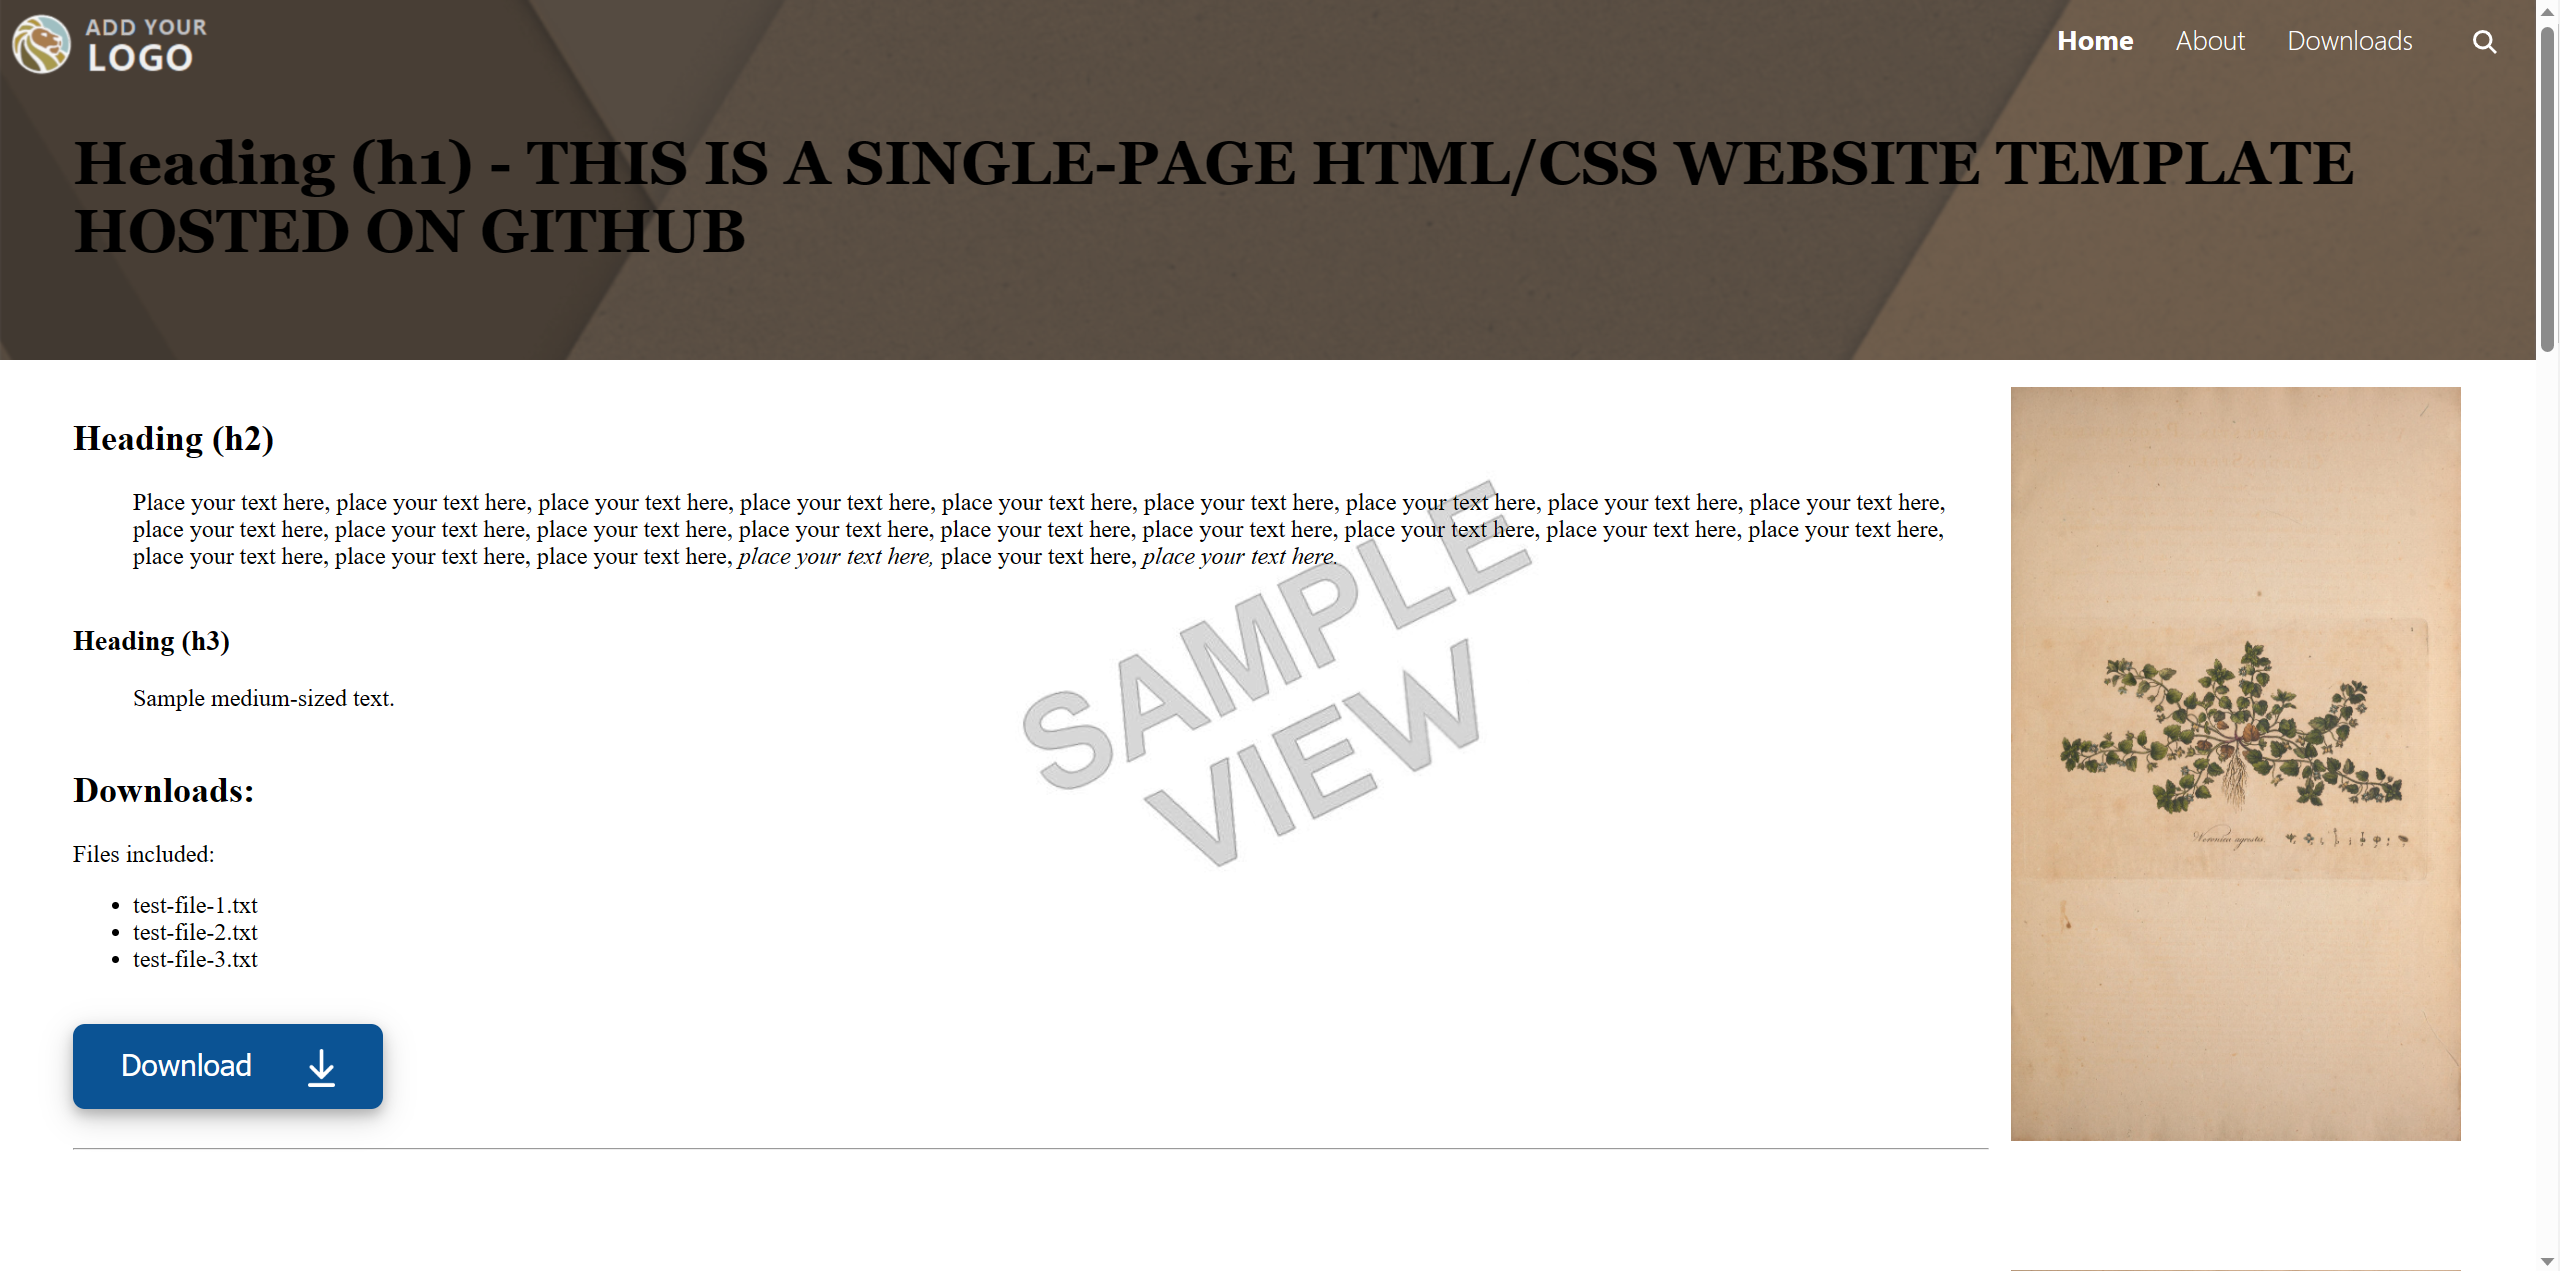
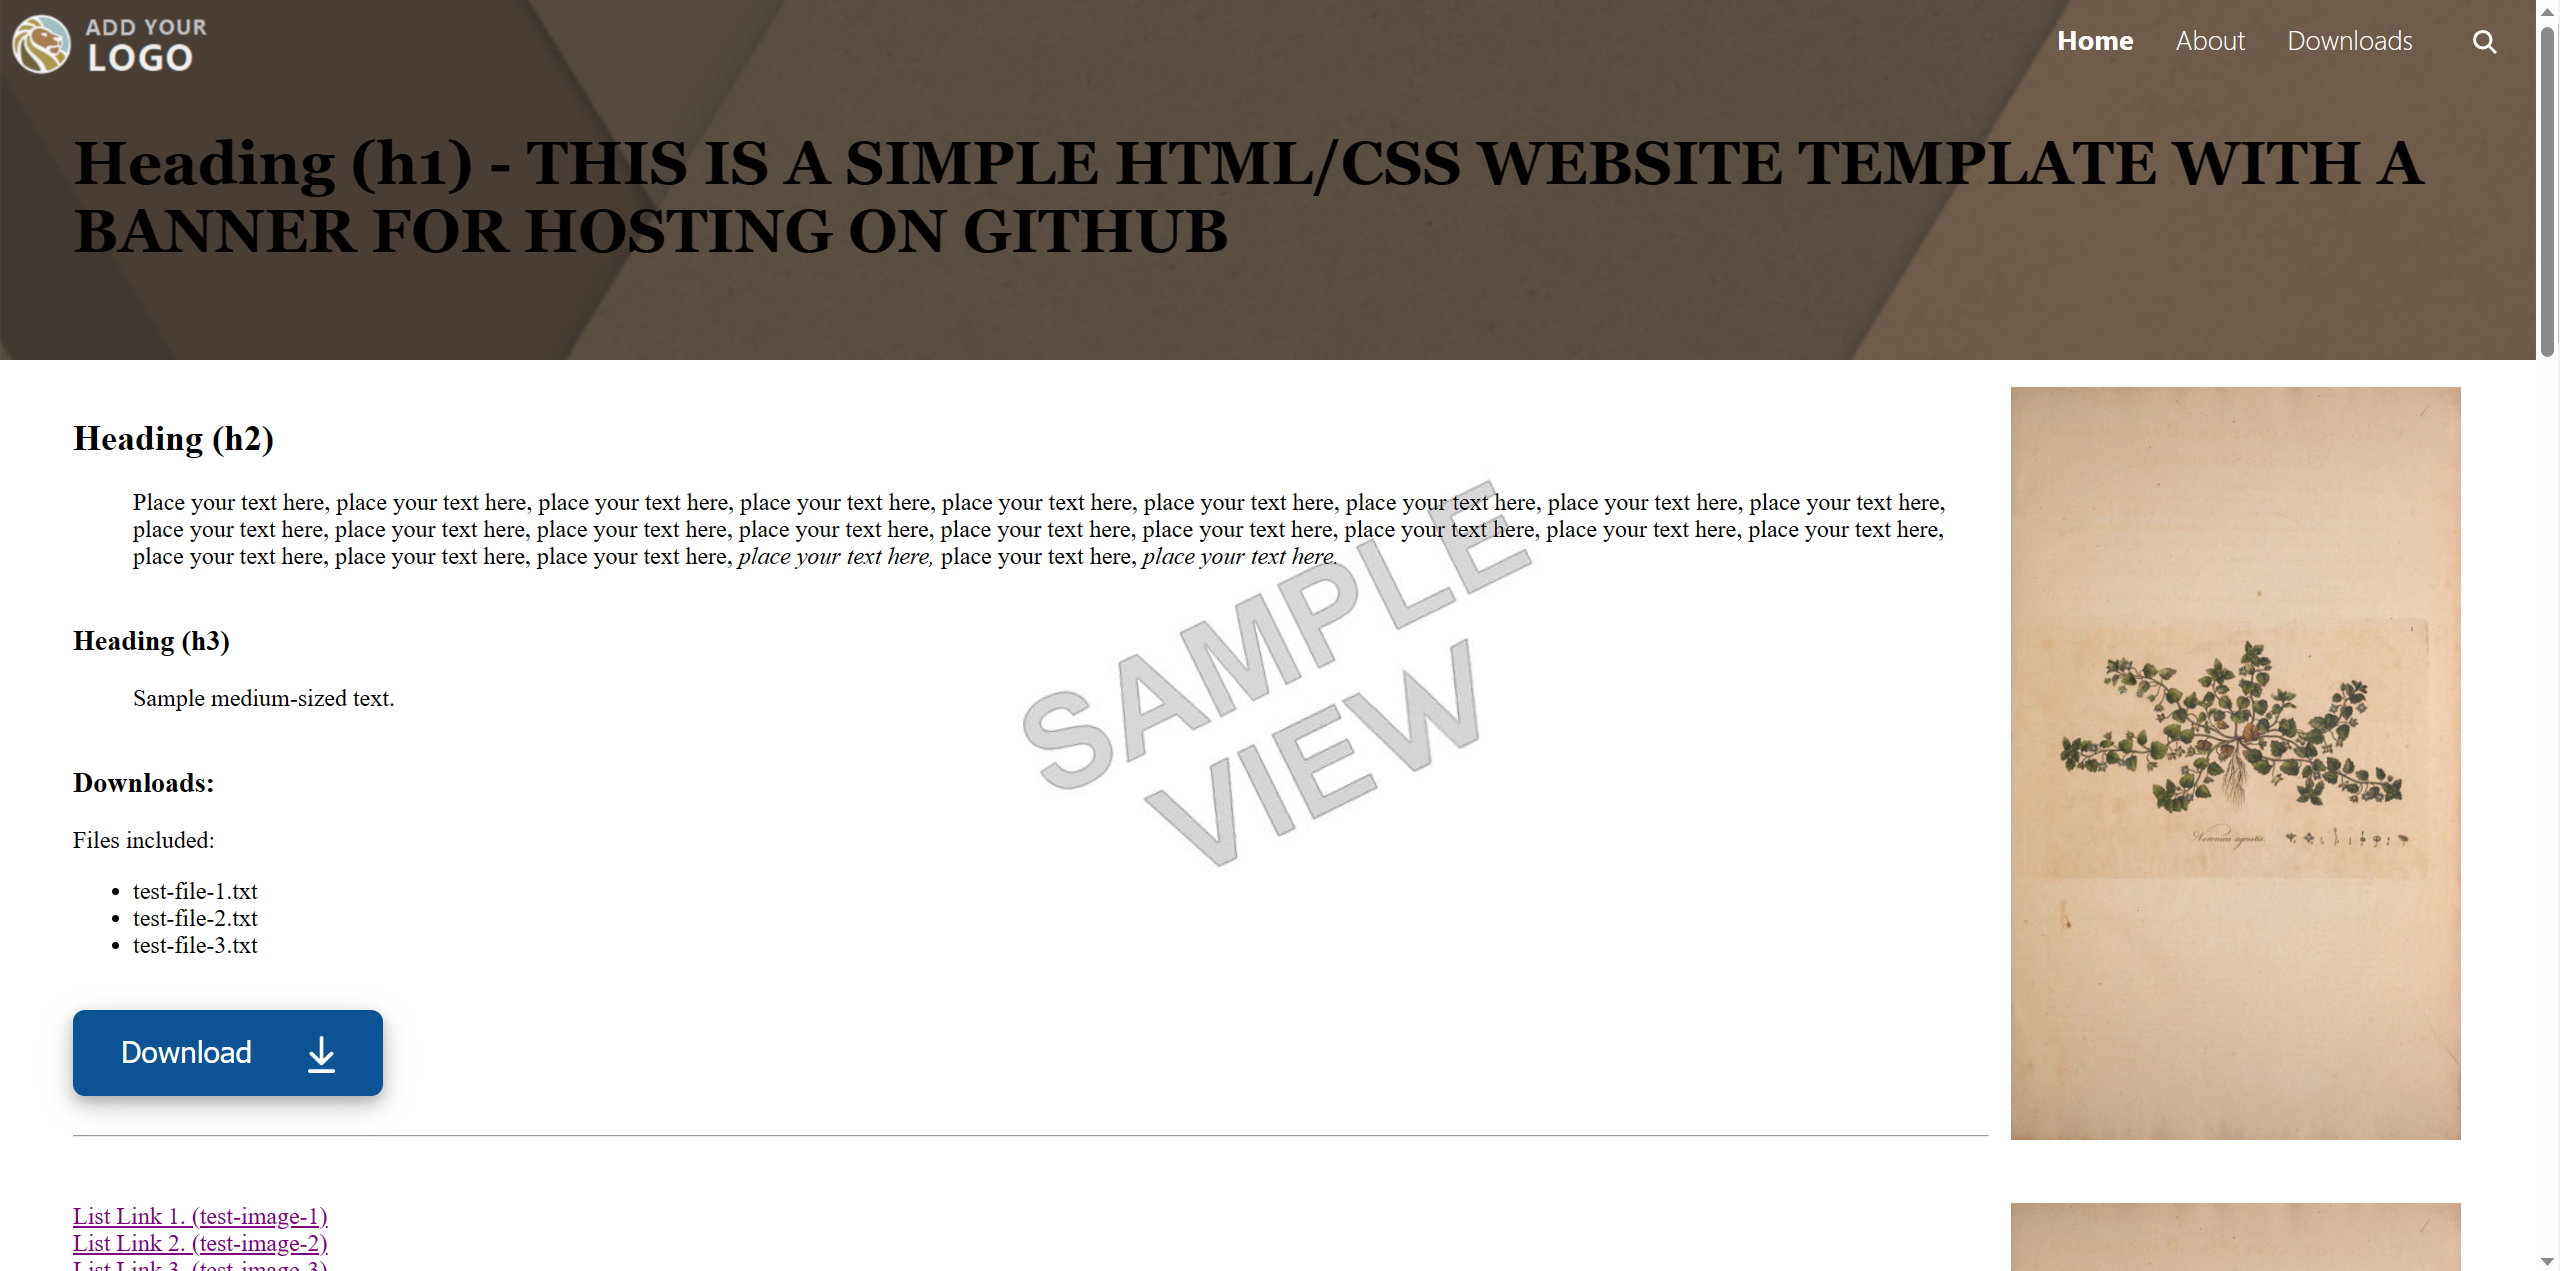
Update sample

diff --git a/index.html b/index.html
@@ -46,7 +46,7 @@
 
 				<div style="margin-top:38px;">
 					<h1 style="color: black; font-family: georgia, garamond, serif; font-size: 40px; text-align: left; margin-left: 50px; margin-right: 50px;">
-					Heading (h1) - THIS IS A SINGLE-PAGE HTML/CSS WEBSITE TEMPLATE HOSTED ON GITHUB
+					Heading (h1) - THIS IS A SIMPLE HTML/CSS WEBSITE TEMPLATE WITH A BANNER FOR HOSTING ON GITHUB
 					</h1>
 				</div>
 
@@ -89,7 +89,7 @@
 
 
 
-			<h2>Downloads:</h2>
+			<h3>Downloads:</h3>
 			<p>Files included:</p>
 			<ul>
 				<li>test-file-1.txt</li>
@@ -112,8 +112,6 @@
 			<br />
 			<br />
 			<hr> <!-- this makes a line -->
-			<br />
-			<br />
 			<br />
 			<br />
 
